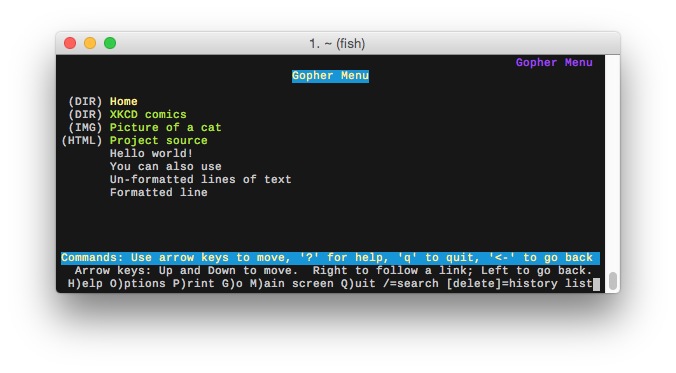
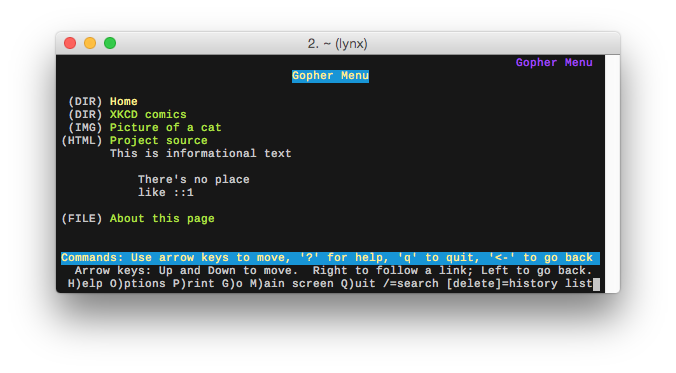
Improving the menu example

diff --git a/README.md b/README.md
@@ -146,29 +146,31 @@ def index():
         # Link to an external web page
         gopher.html('Project source', 'https://github.com/michael-lazar/flask-gopher'),
         
-        # Informational text
-        gopher.info('Hello world!'),
-        
-        # Raw text will automatically be converted into informational text
-        "You can also use\nUn-formatted lines of text",
-        
-        # You can also format the lines manually if you desire
-        "iFormatted line\tfake\texample.com\t0")    
+        # Info lines display text in the menu
+        gopher.info('This is informational text'),
+
+        # Plain text will be converted into info lines
+        "\n    There's no place\n    like ::1\n",
+
+        # Or you can build the lines manually
+        "0About this page\t/about.txt\t127.0.0.1\t8007")
 ```
 
 Here's what the rendered menu looks like:
 
->     $ curl gopher://localhost:8007
->
->     1Home	/	127.0.0.1	8007
->     1XKCD comics	/fun/xkcd	gopher.floodgap.com	70
->     IPicture of a cat	/static/cat.png	127.0.0.1	8007
->     hProject source	URL:https://github.com/michael-lazar/flask-gopher	127.0.0.1	8007
->     iHello world!	fake	example.com	0
->     iYou can also use	fake	example.com	0
->     iUn-formatted lines of text	fake	example.com	0
->     iFormatted line	fake	example.com	0
->     .
+```
+$ curl gopher://localhost:8007
+1Home	/	127.0.0.1	8007
+1XKCD comics	/fun/xkcd	gopher.floodgap.com	70
+IPicture of a cat	/static/cat.png	127.0.0.1	8007
+hProject source	URL:https://github.com/michael-lazar/flask-gopher	127.0.0.1	8007
+iThis is informational text	fake	example.com	0
+i 	fake	example.com	0
+i    There's no place	fake	example.com	0
+i    like ::1	fake	example.com	0
+i 	fake	example.com	0
+0About this page	/about.txt	127.0.0.1	8007
+```
 
 And here's what it looks like in lynx:
 
